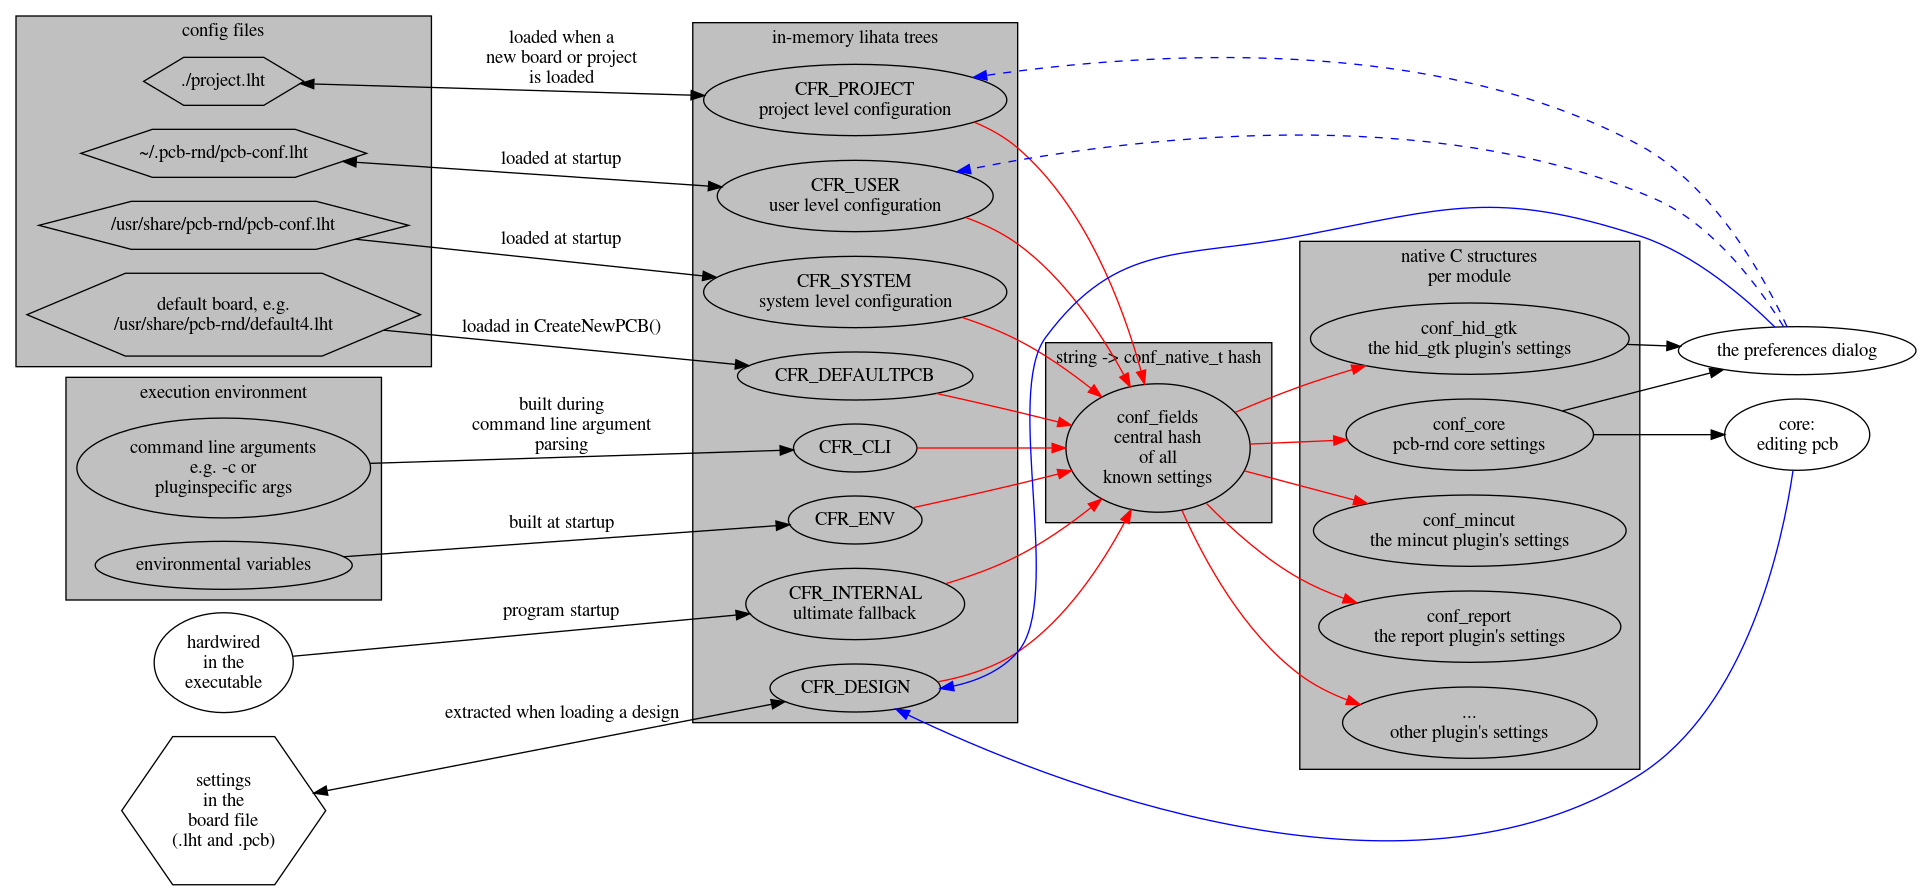
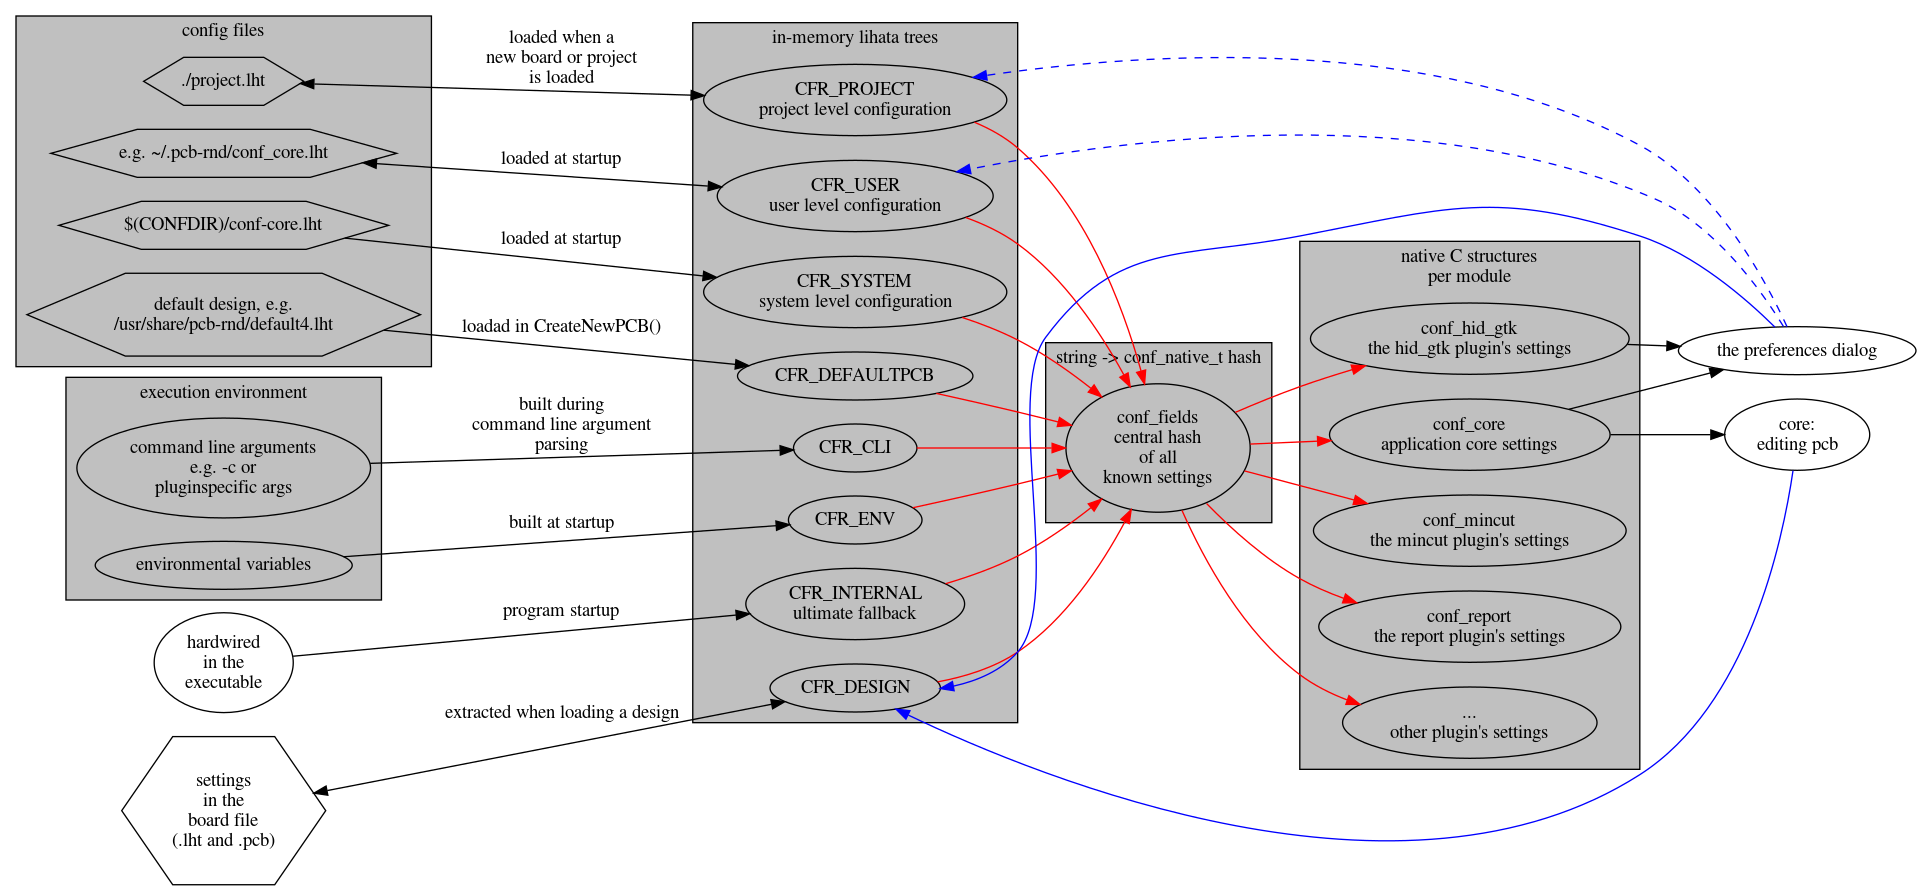
[doc] -Cleanup: switch over pcb-rnd referneces
git-svn-id: svn://repo.hu/librnd/trunk@34891 1d61de99-560f-4dba-8957-1e505d42358b

Changed region(s): [[0.0312, 0.1517, 0.2186, 0.273], [0.6871, 0.4551, 0.8433, 0.5461], [0.0625, 0.3337, 0.1562, 0.364]]

diff --git a/doc/conf/sources.html b/doc/conf/sources.html
@@ -1,11 +1,11 @@
 <!DOCTYPE HTML PUBLIC "-//W3C//DTD HTML 4.01 Transitional//EN" "http://www.w3.org/TR/html4/loose.dtd">
 <html>
 <head>
-	<title> pcb-rnd - config sources </title>
+	<title> librnd - config sources </title>
 	<meta http-equiv="Content-Type" content="text/html;charset=us-ascii">
 </head>
 <body>
-<H1> The new config system in pcb-rnd </H1>
+<H1> The config system in librnd </H1>
 <H2> Sources </H2>
 There are different sources of configuration settings. These are
 different configuration files, sometimes located on the file system.
@@ -17,24 +17,24 @@ The full list of config sources is:
     <td> 100
     <td> (compiled into the executable)
     <td> always
-    <td> the ultimate fallback; allows pcb-rnd even if no other configuration file is found
+    <td> the ultimate fallback; allows the application to run even if no other configuration file is found
 
 
 <tr><td> system
     <td> 200
-    <td> /usr/share/pcb-rnd/pcb-conf.lht
+    <td> app's conf in $(CONFDIR)
     <td> recommended
     <td> should hold system and installation specific settings, e.g. path to the system-wise installed footprint library
 
 <tr><td> default board
     <td> 300
-    <td> /usr/share/pcb-rnd/default4.lht<a href="#footnote1"><sup>1</sup></a>
+    <td> app's default design typically in /usr/share/APP/ <a href="#footnote1"><sup>1</sup></a>
     <td> deprecated<a href="#footnote2"><sup>2</sup></a>
     <td> pcb editable defaults
 
 <tr><td> user
     <td> 400
-    <td> ~/.pcb-rnd/pcb-conf.lht
+    <td> e.g. ~/.pcb-rnd/conf-core.lht
     <td> recommended
     <td> store user preferences, user's common footprint lib path, etc; this is the first file the user can modify (even from the GUI)
 
@@ -42,7 +42,7 @@ The full list of config sources is:
     <td> 500
     <td> environment variables (TODO)
     <td> occasional
-    <td> inject the same (temporary) settings in multiple pcb-rnd sessions without having to change config files
+    <td> inject the same (temporary) settings in multiple app sessions without having to change config files
 
 <tr><td> project
     <td> 600
@@ -52,7 +52,7 @@ The full list of config sources is:
 
 <tr><td> design
     <td> 700
-    <td> saved in the board (.lht) file
+    <td> saved in the design (board, schematics, etc.)
     <td> optional, common
     <td> per design deviation from the user+system config
 
@@ -64,7 +64,7 @@ The full list of config sources is:
 </table>
 
 <p>
-Pcb-rnd reads them all, then merges all settings into a master binary
+The application reads them all, then merges all settings into a master binary
 representation. If a setting is specified in multiple sources, the one
 with the higher priority wins, except for lists where it is also possible
 to prepend/append items. Default priorities are designed to result
@@ -77,11 +77,11 @@ priority and a version controlled project setting can not turn it off")
 <p>
 Footnotes:
 <ul>
-	<li id="footnote1"> <sup>1</sup>: the name of the default board is default4.lht for
+	<li id="footnote1"> <sup>1</sup>: in pcb-rnd the name of the default board is default4.lht for
 	the default 4 layer board. The standard installation also ships default2.lht
 	as a similar 2 layer board. The name of the default boardfile is configured
 	in config node rc/default_pcb_file.
-	<li id="footnote2"> <sup>2</sup>: default pcb should not contain a config subtree; it is
+	<li id="footnote2"> <sup>2</sup>: default design should not contain a config subtree; it is
 	easier to maintain the config tree if default configuration is coming from
 	config files only.
 </ul>

diff --git a/doc/conf/groups.html b/doc/conf/groups.html
@@ -1,11 +1,11 @@
 <!DOCTYPE HTML PUBLIC "-//W3C//DTD HTML 4.01 Transitional//EN" "http://www.w3.org/TR/html4/loose.dtd">
 <html>
 <head>
-	<title> pcb-rnd - config groups </title>
+	<title> librnd - config groups </title>
 	<meta http-equiv="Content-Type" content="text/html;charset=us-ascii">
 </head>
 <body>
-<H1> The new config system in pcb-rnd </H1>
+<H1> The runtime config system in librnd </H1>
 <H2> grouping - flat vs. tree </H2>
 The original settings and HID attribute system in pcb were both flat:
 basically a list of type:key=val triplets. All settings in a few big bags;
@@ -27,7 +27,7 @@ closely related settings end up in the same category (thus the same subtree).
 Thus saving or loading a subtree can fully save or restore a property of the
 program, even if that property is affected by multiple settings.
 
-<h2 id="tree"> pcb-rnd config tree </h2>
+<h2 id="tree"> librnd config tree </h2>
 The config tree, the full tree is, something that exists in memory. Actual
 config files often contain only a subset of the tree. Multiple config files
 (e.g. system level, user level, settings from the board file) are loaded and
@@ -99,13 +99,13 @@ GUI (preferences dialog) to change all settings; uniform way to
 save/restore parts of the settings.
 <p>
 The utils/ subtree is very similar in all aspects except that it is for
-external utility programs. Utils that are closely related to pcb-rnd, such
+external utility programs. Some utils that are closely related to pcb-rnd, such
 as gsch2pcb-rnd, should work from the same configuration.
 If they already load the
 pcb-rnd config files it's easier to keep their settings in the same tree,
 in the same format.
 <p>
-Pcb-rnd doesn't generate warning for unrecognized settings in dynamic subtrees.
+No warning is generated for unrecognized settings in dynamic subtrees.
 This lets the user configure plugins that are not always loaded and let util
 settings sit in their subtree.
 
@@ -122,7 +122,7 @@ access them directly.
 <h2> [hidlib] settings </h2>
 <p>
 Settings marked with [hidlib] are those that are shared among all
-applications based on pcb-rnd's hidlib. They have the same syntax
+Ringdove applications. They have the same syntax
 and meaning in all those applications.
 
 </body>

diff --git a/doc/conf/index_user.html b/doc/conf/index_user.html
@@ -1,13 +1,13 @@
 <!DOCTYPE HTML PUBLIC "-//W3C//DTD HTML 4.01 Transitional//EN" "http://www.w3.org/TR/html4/loose.dtd">
 <html>
 <head>
-	<title> pcb-rnd - config for users </title>
+	<title> librnd - config for users </title>
 	<meta http-equiv="Content-Type" content="text/html;charset=us-ascii">
 </head>
 <body>
-<H1> The pcb-rnd config system</H1>
+<H1> The librnd config system</H1>
 <H2> User documentation </H2>
-As of 1.1.0, pcb-rnd switched to a <a href="syntax.html">lihata</a> based configuration system.
+As of pcb-rnd 1.1.0, we switched to a <a href="syntax.html">lihata</a> based configuration system.
 The purpose of this document is to describes the basic system design going into
 enough details to provide the user with full control over the configuration.
 The other side, how the system is implemented is described in the
@@ -18,7 +18,7 @@ The other side, how the system is implemented is described in the
 The final configuration is a collection of values for
 <a href="groups.html"> all known settings, arranged in a tree</a>. The <i>config
 tree</i> is a theoretical concept; different representations of the tree are
-actually built runtime, in-memory. Pcb-rnd code, plugins and utilities
+actually built runtime, in-memory. Application code, plugins and utilities
 are constantly reading these in-memory representations to decide how to
 carry out their tasks.
 <p>

diff --git a/doc/conf/index.html b/doc/conf/index.html
@@ -1,11 +1,11 @@
 <!DOCTYPE HTML PUBLIC "-//W3C//DTD HTML 4.01 Transitional//EN" "http://www.w3.org/TR/html4/loose.dtd">
 <html>
 <head>
-	<title> pcb-rnd - config system </title>
+	<title> librnd - config system </title>
 	<meta http-equiv="Content-Type" content="text/html;charset=us-ascii">
 </head>
 <body>
-<H1> The config system in pcb-rnd </H1>
+<H1> The config system in librnd </H1>
 
 <H2> How to get started </H2>
 <ul>
@@ -13,7 +13,7 @@
 	<li> If you are an programmer, read the <a href="index_user.html">user documentation</a> and the <a href="index_prog.html">programmer documentation</a>
 	<li> If you are a plugin programmer, there's a <a href="plugin_chk.html"> plugin programmer's conf checklist </a> that summarizes what to do
 	<li> In any case, these links may help: <a href="syntax.html">syntax</a>, <a href="sources.html">config files</a>, <a href="prio.html">priority handling</a>
-	<li> if you were familiar with the old "settings" system, please read <a href="history.html"> why pcb-rnd switched </a>
+	<li> if you were familiar with the old "settings" system (in early pcb-rnd or in gEDA/PCB), please read <a href="history.html"> why pcb-rnd switched </a>
 </ul>
 
 </body>

diff --git a/doc/conf/scalars.html b/doc/conf/scalars.html
@@ -1,11 +1,11 @@
 <!DOCTYPE HTML PUBLIC "-//W3C//DTD HTML 4.01 Transitional//EN" "http://www.w3.org/TR/html4/loose.dtd">
 <html>
 <head>
-	<title> pcb-rnd - config scalars </title>
+	<title> librnd - config scalars </title>
 	<meta http-equiv="Content-Type" content="text/html;charset=us-ascii">
 </head>
 <body>
-<H1> The new config system in pcb-rnd </H1>
+<H1> The config system in librnd </H1>
 <H2> Scalars </H2>
 
 Scalar settings have only one value after the merge. The only <i>policy</i>
@@ -52,7 +52,7 @@ Merge iterations:
 </table>
 <p>Example scenario: user preference enforced: even if the project file would use
 'Q' for the given setting, the user prefers 'E'. This affects runtime
-(the value of the setting after the merge, in other words how pcb-rnd works),
+(the value of the setting after the merge, in other words how the application works),
 but does not change the project configuration. This allows the given user to
 always use 'E' for the given setting while lets other users working on the
 same project use the value set in the project file.

diff --git a/doc/conf/syntax.html b/doc/conf/syntax.html
@@ -1,11 +1,11 @@
 <!DOCTYPE HTML PUBLIC "-//W3C//DTD HTML 4.01 Transitional//EN" "http://www.w3.org/TR/html4/loose.dtd">
 <html>
 <head>
-	<title> pcb-rnd - config syntax </title>
+	<title> librnd - config syntax </title>
 	<meta http-equiv="Content-Type" content="text/html;charset=us-ascii">
 </head>
 <body>
-<H1> The new config system in pcb-rnd </H1>
+<H1> The config system in librnd </H1>
 <H2> Config file syntax </H2>
 
 The config file syntax is <a href="http://repo.hu/projects/lihata">lihata</a>.
@@ -20,7 +20,7 @@ patterns seen in the examples. A few thumb of rules:
 
 <H3> config root syntax </H3>
 <p>
-A pcb-rnd config file, (or <i>document</i> for short) has a single root
+A librnd config file, (or <i>document</i> for short) has a single root
 node whose name must be li:pcb-rnd-conf-v1 - this is the signature of the
 document. It is a flat list of one or more <i>config root/</i> subtrees.
 TODO: is this really a list or a hash?

diff --git a/doc/conf/history.html b/doc/conf/history.html
@@ -1,13 +1,19 @@
 <!DOCTYPE HTML PUBLIC "-//W3C//DTD HTML 4.01 Transitional//EN" "http://www.w3.org/TR/html4/loose.dtd">
 <html>
 <head>
-	<title> pcb-rnd - config system - why </title>
+	<title> librnd - config system - why </title>
 	<meta http-equiv="Content-Type" content="text/html;charset=us-ascii">
 </head>
 <body>
-<H1> The config system in pcb-rnd - why </H1>
+<H1> The config system in librnd - why </H1>
+
+<p>
+NOTE: this document was written for pcb-rnd at the time the old "settings"
+system got replaced with the new config system that is the config system
+in librnd now.
 
 <H2> Why, what was wrong with the old one? </H2>
+<p>
 The old config system had several limitations that would have been
 hard to fix keeping the original design:
 <ul>

diff --git a/doc/conf/lists.html b/doc/conf/lists.html
@@ -1,11 +1,11 @@
 <!DOCTYPE HTML PUBLIC "-//W3C//DTD HTML 4.01 Transitional//EN" "http://www.w3.org/TR/html4/loose.dtd">
 <html>
 <head>
-	<title> pcb-rnd - config lists </title>
+	<title> librnd - config lists </title>
 	<meta http-equiv="Content-Type" content="text/html;charset=us-ascii">
 </head>
 <body>
-<H1> The new config system in pcb-rnd </H1>
+<H1> The config system in librnd </H1>
 <H2> Lists and arrays </H2>
 
 Non-scalar settings are arrays or lists. Arrays can be explicitly indexed

diff --git a/doc/conf/prio.html b/doc/conf/prio.html
@@ -1,11 +1,11 @@
 <!DOCTYPE HTML PUBLIC "-//W3C//DTD HTML 4.01 Transitional//EN" "http://www.w3.org/TR/html4/loose.dtd">
 <html>
 <head>
-	<title> pcb-rnd - config priorities </title>
+	<title> librnd - config priorities </title>
 	<meta http-equiv="Content-Type" content="text/html;charset=us-ascii">
 </head>
 <body>
-<H1> The new config system in pcb-rnd </H1>
+<H1> The config system in librnd </H1>
 <H2> Priorities </H2>
 
 Priority is an integer property of each config root.

diff --git a/doc/conf/index_prog.html b/doc/conf/index_prog.html
@@ -1,11 +1,11 @@
 <!DOCTYPE HTML PUBLIC "-//W3C//DTD HTML 4.01 Transitional//EN" "http://www.w3.org/TR/html4/loose.dtd">
 <html>
 <head>
-	<title> pcb-rnd - config programmer's index </title>
+	<title> librnd - config programmer's index </title>
 	<meta http-equiv="Content-Type" content="text/html;charset=us-ascii">
 </head>
 <body>
-<H1> The new config system in pcb-rnd </H1>
+<H1> The config system in librnd </H1>
 <H2> Programmer's documentation </H2>
 
 TODO

diff --git a/doc/conf/plugin_chk.html b/doc/conf/plugin_chk.html
@@ -1,11 +1,11 @@
 <!DOCTYPE HTML PUBLIC "-//W3C//DTD HTML 4.01 Transitional//EN" "http://www.w3.org/TR/html4/loose.dtd">
 <html>
 <head>
-	<title> pcb-rnd - config plugin checklist </title>
+	<title> librnd - config plugin checklist </title>
 	<meta http-equiv="Content-Type" content="text/html;charset=us-ascii">
 </head>
 <body>
-<H1> The new config system in pcb-rnd </H1>
+<H1> The config system in librnd </H1>
 <H2> Plugin programmer's checklist </H2>
 
 TODO

diff --git a/doc/conf/noextend.html b/doc/conf/noextend.html
@@ -1,7 +1,7 @@
 <!DOCTYPE HTML PUBLIC "-//W3C//DTD HTML 4.01 Transitional//EN" "http://www.w3.org/TR/html4/loose.dtd">
 <html>
 <head>
-	<title> pcb-rnd - old config </title>
+	<title> librnd - old config </title>
 	<meta http-equiv="Content-Type" content="text/html;charset=us-ascii">
 </head>
 <body>
